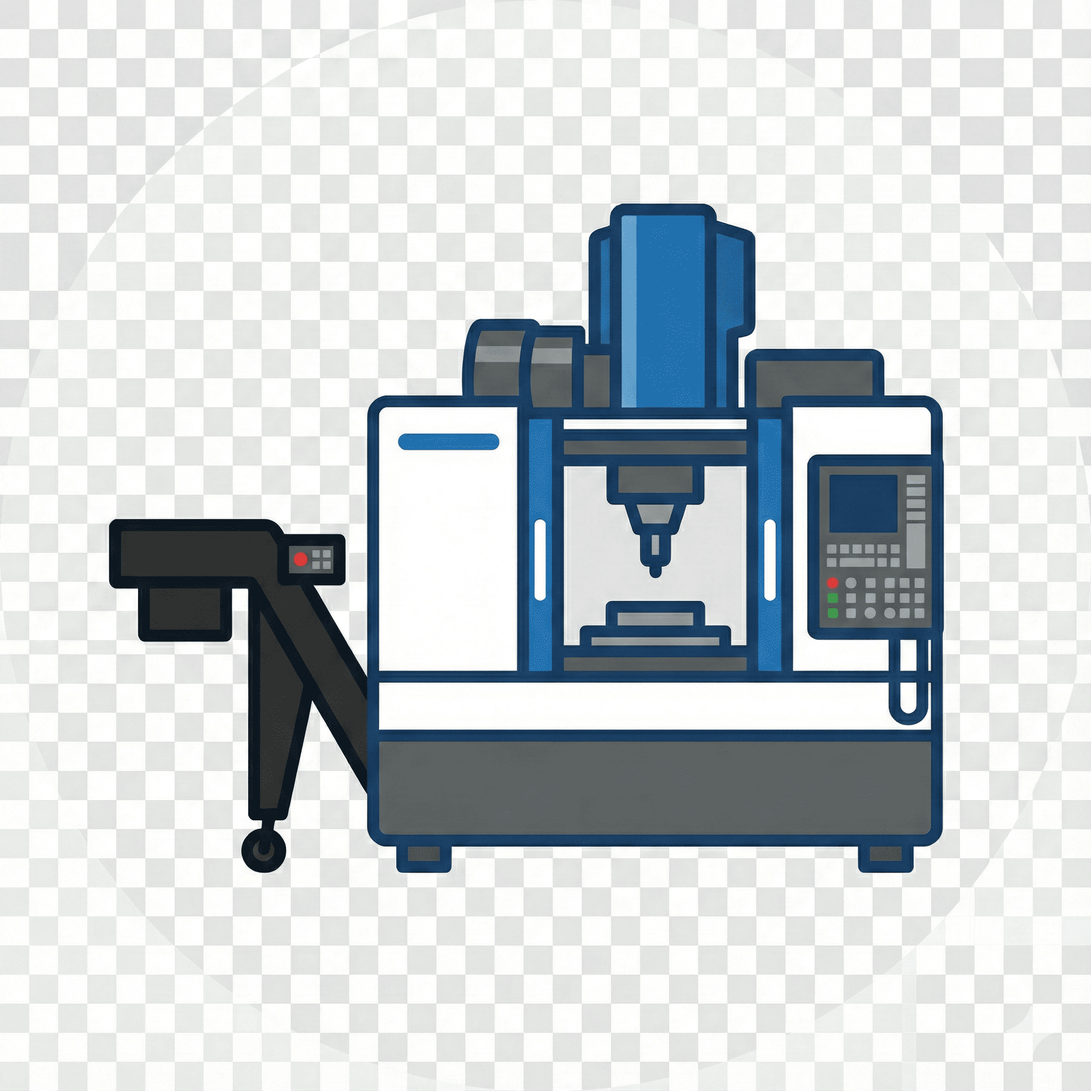
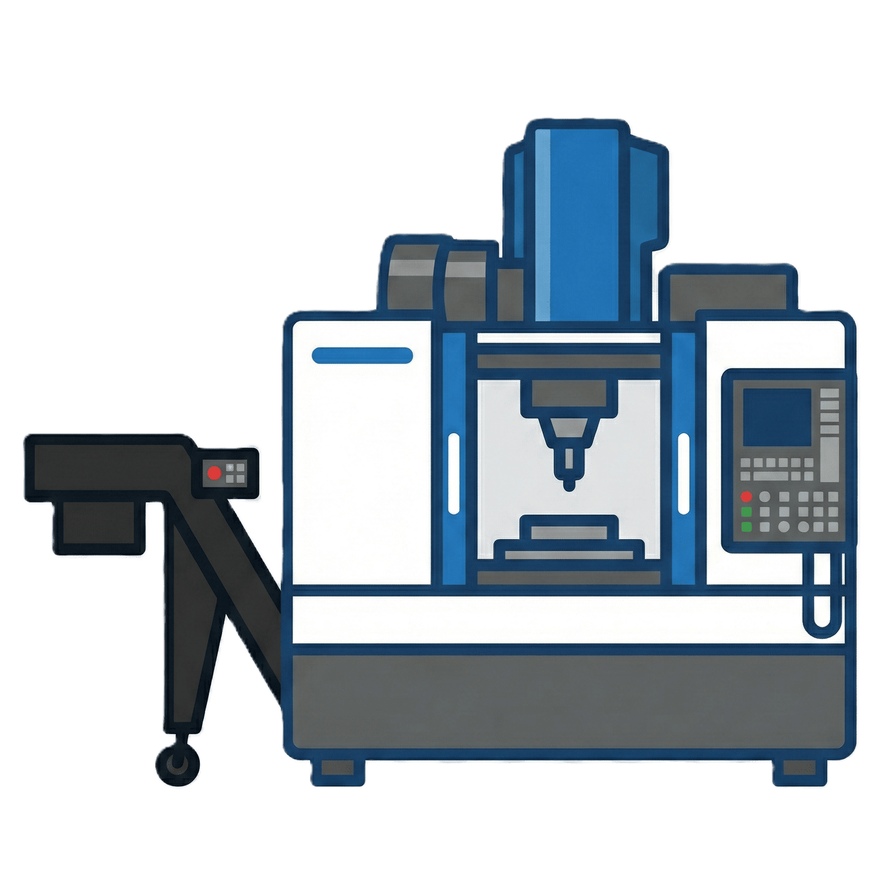
Add files via upload

diff --git a/app.py b/app.py
@@ -4,10 +4,15 @@ import pandas as pd
 # 1. 페이지 설정
 st.set_page_config(page_title="WIA Global Tracker", page_icon="⚙", layout="centered")
 
-# --- [DESIGN: Custom CSS] ---
+# --- [DESIGN: CSS 스타일 적용] ---
 st.markdown("""
     <style>
-    /* 1. 메인 버튼 스타일 (네이비 블루 & 골드) */
+    /* [요청하신 부분] 이미지 배경을 강제로 투명하게 설정 */
+    img {
+        background-color: transparent !important;
+    }
+
+    /* 메인 버튼 스타일 (네이비 블루) */
     div.stButton > button:first-child {
         background-color: #003366;
         color: white;
@@ -23,13 +28,7 @@ st.markdown("""
         border: 1px solid #FFD700;
     }
     
-    /* 2. 전체 레이아웃 패딩 조정 */
-    .block-container {
-        padding-top: 2rem;
-        padding-bottom: 3rem;
-    }
-    
-    /* 3. 섹션 헤더 스타일 */
+    /* 섹션 헤더 스타일 */
     .info-header {
         font-size: 1.1rem;
         font-weight: 700;
@@ -40,7 +39,7 @@ st.markdown("""
         margin-top: 20px;
     }
 
-    /* 4. 상태 뱃지 스타일 */
+    /* 상태 뱃지 스타일 */
     .status-badge {
         padding: 5px 10px;
         border-radius: 15px;
@@ -48,16 +47,16 @@ st.markdown("""
         font-weight: bold;
         text-align: center;
         display: inline-block;
+        box-shadow: 0 2px 4px rgba(0,0,0,0.1);
     }
     </style>
 """, unsafe_allow_html=True)
 
-# --- [CONFIGURATION] ---
-# 구글 시트 링크 (기존 링크 유지)
+# --- [설정] 구글 시트 및 데이터 ---
+# 구글 시트 링크
 sheet_url = "https://docs.google.com/spreadsheets/d/e/2PACX-1vQz_9hUxpSgy0qh_lOwBqB4H4uVubgMNh5qTnhrky4tHSWKkc7HydOCGDAox3K-yDTtRvI0I0Dmh4xs/pub?gid=0&single=true&output=csv"
 
-# [중요] 진행 상태 순서 정의 (6단계)
-# 구글 시트의 'status' 컬럼에 적힐 영어 단어와 정확히 일치해야 합니다.
+# 진행 상태 순서 (6단계)
 STEP_ORDER = [
     "in production",    # 1. 생산
     "ready to deliver", # 2. 배송준비
@@ -74,40 +73,40 @@ def load_data():
         data = pd.read_csv(sheet_url)
         if 'so_number' in data.columns:
             data['so_number'] = data['so_number'].astype(str).str.strip()
-        # 공백 및 대소문자 처리를 위해 status 정리
         if 'status' in data.columns:
             data['status'] = data['status'].astype(str).str.strip().str.lower()
         return data
     except Exception as e:
         return None
 
-# --- Sidebar ---
+# --- 사이드바 (Sidebar) ---
 with st.sidebar:
-    # 1. Contact Us (전화번호 삭제, 아이콘 변경)
+    # 1. Contact Us (회사 아이콘 🏢)
     st.header("🏢 Contact Us") 
     st.info("""
+    **Sales Dept.**
+            
     If you have any questions, 
-    please contact us.
+    please contact us.            
     
-    **Email:** export@company.com  
+    **Email:** sales@company.com
     """)
     
-    st.write("") # 여백 추가
     st.write("") 
     st.divider()
 
-    # 2. Logo & Copyright (위치 변경: 하단 배치)
-    # logo.png 파일이 폴더에 있어야 합니다.
+    # 2. 로고 위치 (하단 배치)
+    # logo.png 파일 사용
     try:
         st.image("logo.png", use_container_width=True) 
     except:
-        st.header("WIA MACHINE TOOLS") # 이미지가 없을 경우 텍스트 대체
+        st.header("WIA MACHINE TOOLS")
 
     st.caption("© 2025 WIA MACHINE TOOLS")
 
-# --- Main Content ---
+# --- 메인 화면 (Main Content) ---
 
-# 1. Header Area (Icon moved to right)
+# 1. 헤더 영역 (제목 + 기계 아이콘)
 c_head_text, c_head_img = st.columns([3.5, 1])
 
 with c_head_text:
@@ -115,17 +114,17 @@ with c_head_text:
     st.markdown("Enter your **SO Number** to track the status.")
 
 with c_head_img:
-    # machine.png 파일이 폴더에 있어야 합니다.
+    # 기계 아이콘 (machine.png)
     try:
         st.image("machine.png", use_container_width=True)
     except:
-        st.write("🚜") # 이미지가 없을 경우 이모지 대체
+        st.write("⚙")
 
-st.write("") # Spacer
+st.write("") # 간격 띄우기
 
 df = load_data()
 
-# 2. Search Area
+# 2. 검색창 영역
 with st.container(border=True):
     col_input, col_btn = st.columns([4, 1])
     with col_input:
@@ -133,7 +132,7 @@ with st.container(border=True):
     with col_btn:
         search_btn = st.button("TRACK", use_container_width=True)
 
-# 3. Result Area
+# 3. 결과 표시 영역
 if search_btn or user_input:
     if not user_input:
         st.warning("Please enter a SO Number.")
@@ -145,7 +144,7 @@ if search_btn or user_input:
             if not result.empty:
                 row = result.iloc[0]
                 
-                # Data Mapping
+                # 데이터 매핑
                 p_name = row.get('product_name', '-')
                 client = row.get('client_name', '-')
                 status = row.get('status', 'unknown')
@@ -154,22 +153,22 @@ if search_btn or user_input:
                 eta = row.get('ETA', '-')
                 remarks = row.get('remarks', '-')
 
-                # --- [DESIGN CORE] Result Card ---
+                # --- 결과 카드 디자인 ---
                 st.markdown("#### 🔍 Tracking Result")
                 
                 with st.container(border=True):
-                    # (1) Title Section
+                    # (1) 타이틀 & 뱃지
                     c_title, c_badge = st.columns([3, 1])
                     with c_title:
                         st.markdown(f"### {p_name}")
                         st.caption(f"Client: **{client}** | SO No: **{search_key}**")
                     
                     with c_badge:
-                        # 상태 뱃지 (색상 구분)
-                        badge_color = "#6c757d" # 기본 회색
-                        if status == "sold": badge_color = "#28a745" # 초록
-                        elif status == "stock": badge_color = "#17a2b8" # 청록
-                        elif status == "arrived": badge_color = "#ffc107" # 노랑
+                        # 상태별 뱃지 색상 지정
+                        badge_color = "#6c757d" # 기본(회색)
+                        if status == "sold": badge_color = "#28a745"       # 초록
+                        elif status == "stock": badge_color = "#17a2b8"    # 청록
+                        elif status == "arrived": badge_color = "#ffc107"  # 노랑
                         elif status == "shipping": badge_color = "#007bff" # 파랑
                         elif status == "in production": badge_color = "#003366" # 네이비
                         
@@ -181,27 +180,24 @@ if search_btn or user_input:
 
                     st.divider()
 
-                    # (2) Process Status (6단계)
+                    # (2) 진행 단계 (6단계)
                     st.markdown("<div class='info-header'>Process Status</div>", unsafe_allow_html=True)
                     
-                    # 진행률 계산
                     progress_percent = 0
                     if status in STEP_ORDER:
-                        # 리스트의 인덱스를 찾아 백분율로 환산 (1단계=16%, 6단계=100%)
                         current_idx = STEP_ORDER.index(status) + 1
                         progress_percent = int((current_idx / len(STEP_ORDER)) * 100)
                     
-                    # 프로그레스 바 표시
                     st.progress(progress_percent)
                     
-                    # 현재 단계 텍스트 표시
+                    # 텍스트 흐름 표시
                     step_labels = " > ".join([s.title() for s in STEP_ORDER])
                     st.caption(f"**Flow:** {step_labels}")
                     st.info(f"Current Phase: **{status.upper()}** ({progress_percent}%)")
 
                     st.write("") 
 
-                    # (3) Schedule Grid
+                    # (3) 일정 정보
                     st.markdown("<div class='info-header'>Schedule & Logistics</div>", unsafe_allow_html=True)
                     
                     col1, col2, col3 = st.columns(3)
@@ -215,7 +211,7 @@ if search_btn or user_input:
                         st.markdown("**🛬 ETA (Arrival)**")
                         st.markdown(f"📅 `{eta}`")
                     
-                    # (4) Remarks
+                    # (4) 비고 사항
                     if remarks and str(remarks).lower() not in ["nan", "none", "-"]:
                         st.divider()
                         st.markdown("**📝 Remarks**")
